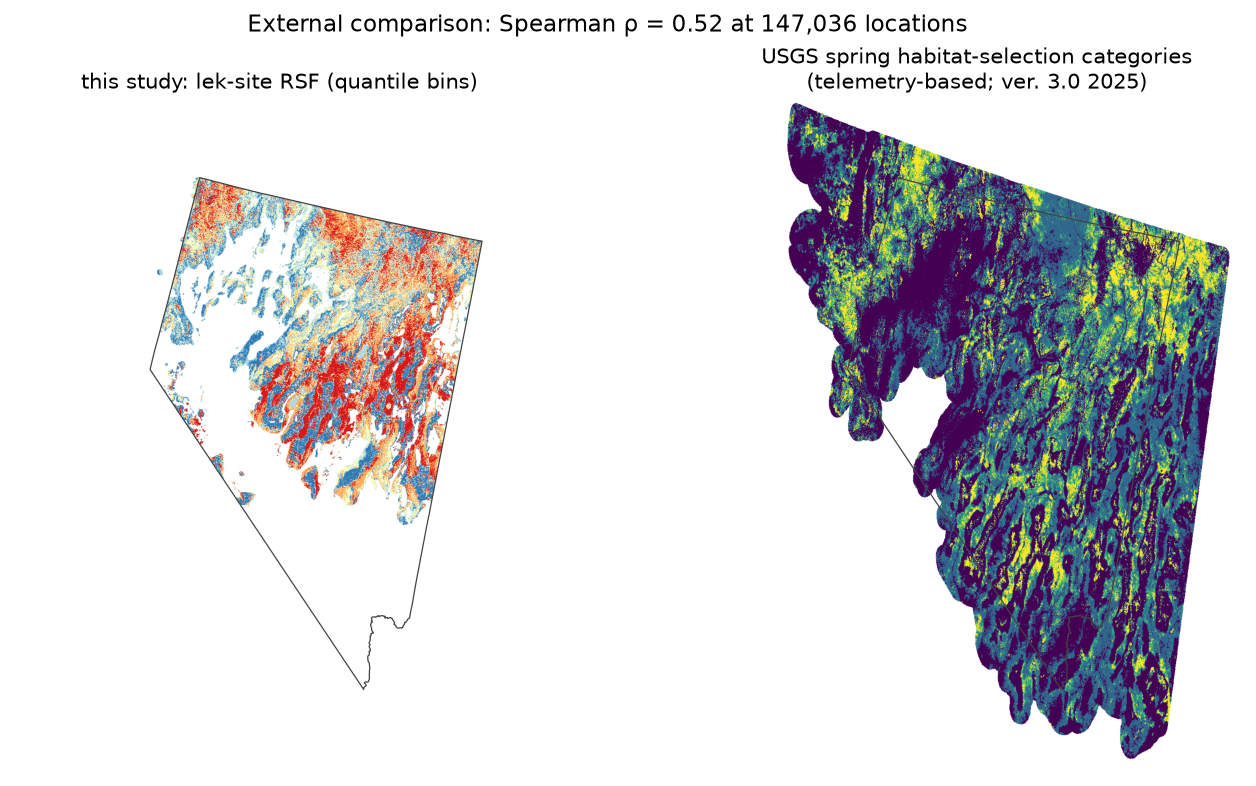
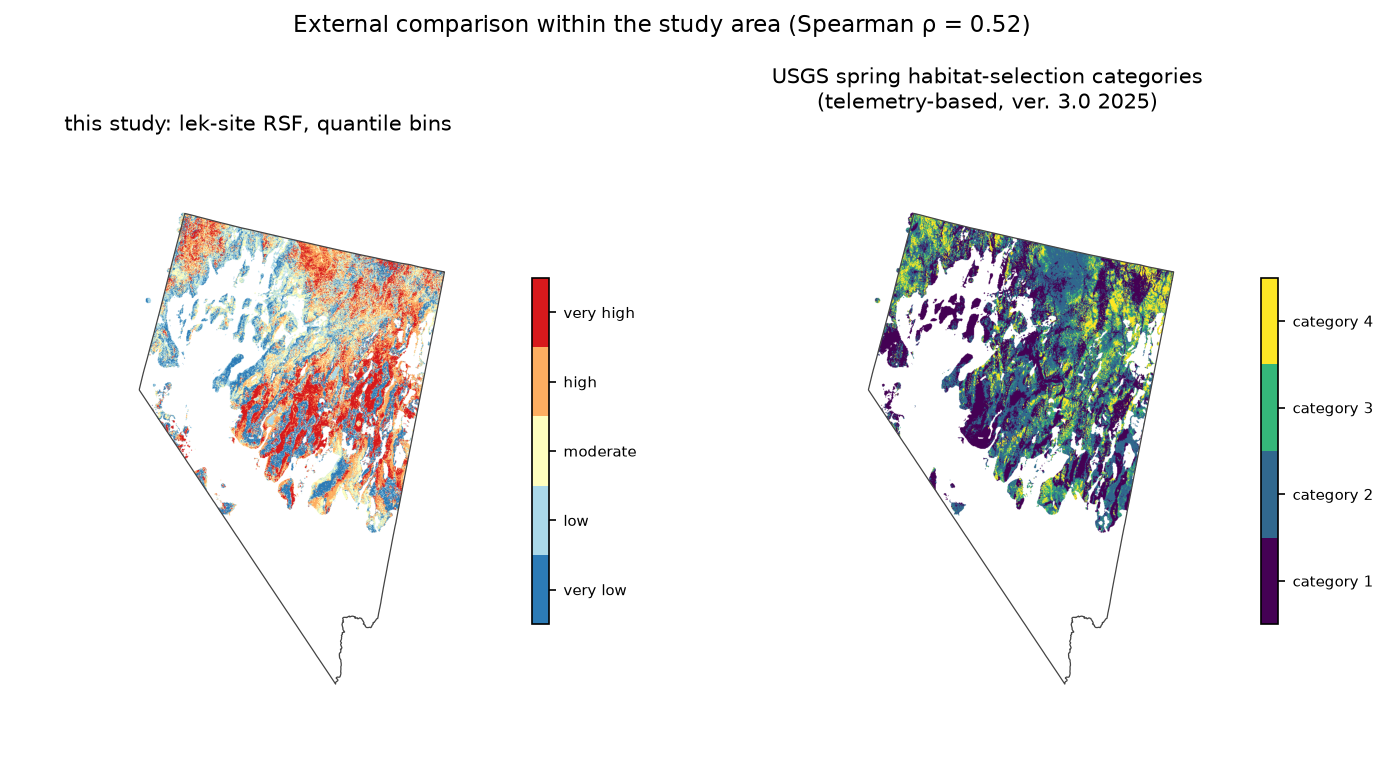
Figure fixes per review: road-class vars in distributions/boxplots, two-panel forest (sjPlot-legible), USGS clipped+legended with full-res monotone contingency (49%/40% corner agreement)

diff --git a/pipeline/map_panels.py b/pipeline/map_panels.py
@@ -1,6 +1,6 @@
 # /// script
 # requires-python = ">=3.10"
-# dependencies = ["rasterio", "numpy", "pandas", "geopandas>=1.0", "pyogrio", "pyarrow", "matplotlib"]
+# dependencies = ["rasterio", "numpy", "pandas", "geopandas>=1.0", "pyogrio", "pyarrow", "matplotlib", "tabulate"]
 # ///
 """map_panels.py -- the fine-scale zoom panel, USGS side-by-side, and Boyce
 P/E curve figure. Zoom window fixed on the Tuscarora Mountains area, chosen
@@ -56,7 +56,10 @@ fig.suptitle("Fine-scale prediction structure invisible at state scale", fontsiz
 fig.savefig(FIGS / "prediction_zoom.png", dpi=150, bbox_inches="tight")
 plt.close(fig)
 
-# --- USGS side-by-side: their spring selection categories on our grid ----------
+# --- USGS side-by-side v2: study-area clipped, legended, bin-vs-category ------
+from rasterio.features import rasterize as rasterize_feat
+sa_gdf = gpd.read_file(D / "design/study_area_5070.gpkg")
+sa_geom = sa_gdf.geometry.iloc[0]
 with rasterio.open(D / "usgs/GrSG_Spring_Selection_Categories.tif") as usrc:
     with WarpedVRT(usrc, crs="EPSG:5070") as vrt:
         uwin = from_bounds(bnd.left, bnd.bottom, bnd.right, bnd.top, vrt.transform)
@@ -65,20 +68,48 @@ with rasterio.open(D / "usgs/GrSG_Spring_Selection_Categories.tif") as usrc:
 if und is not None:
     theirs[theirs == und] = np.nan
 theirs[theirs < 0] = np.nan
+# mask both layers to the study area on the display grid
+t_disp = rasterio.transform.from_bounds(bnd.left, bnd.bottom, bnd.right, bnd.top, ow, oh)
+sa_mask = rasterize_feat([(sa_geom, 1)], out_shape=(oh, ow), transform=t_disp, fill=0).astype(bool)
+theirs[~sa_mask] = np.nan
+bin_state_sa = np.where(sa_mask, bin_state, np.nan)
 
-fig, axes = plt.subplots(1, 2, figsize=(11, 5.8))
-axes[0].imshow(bin_state, cmap=ListedColormap(COLORS), vmin=0, vmax=4,
-               extent=(bnd.left, bnd.right, bnd.bottom, bnd.top))
-axes[0].set_title("this study: lek-site RSF (quantile bins)", fontsize=10)
-im = axes[1].imshow(theirs, cmap="viridis",
-                    extent=(bnd.left, bnd.right, bnd.bottom, bnd.top))
-axes[1].set_title("USGS spring habitat-selection categories\n(telemetry-based; ver. 3.0 2025)", fontsize=10)
+cats = sorted(int(c) for c in np.unique(theirs[np.isfinite(theirs)]))
+cat_cmap = ListedColormap(plt.cm.viridis(np.linspace(0, 1, len(cats))))
+fig, axes = plt.subplots(1, 2, figsize=(11.5, 6))
+im0 = axes[0].imshow(bin_state_sa, cmap=ListedColormap(COLORS), vmin=0, vmax=4,
+                     extent=(bnd.left, bnd.right, bnd.bottom, bnd.top))
+axes[0].set_title("this study: lek-site RSF, quantile bins", fontsize=10)
+cb0 = fig.colorbar(im0, ax=axes[0], shrink=0.5, ticks=[0.4, 1.2, 2.0, 2.8, 3.6])
+cb0.ax.set_yticklabels(["very low", "low", "moderate", "high", "very high"], fontsize=7)
+theirs_idx = np.full_like(theirs, np.nan)
+for i, c in enumerate(cats):
+    theirs_idx[theirs == c] = i
+im1 = axes[1].imshow(theirs_idx, cmap=cat_cmap, vmin=-0.5, vmax=len(cats) - 0.5,
+                     extent=(bnd.left, bnd.right, bnd.bottom, bnd.top))
+axes[1].set_title("USGS spring habitat-selection categories\n(telemetry-based, ver. 3.0 2025)", fontsize=10)
+cb1 = fig.colorbar(im1, ax=axes[1], shrink=0.5, ticks=range(len(cats)))
+cb1.ax.set_yticklabels([f"category {c}" for c in cats], fontsize=7)
 for ax in axes:
     nv.boundary.plot(ax=ax, color="#444", linewidth=0.6)
     ax.set_axis_off()
-fig.suptitle("External comparison: Spearman ρ = 0.52 at 147,036 locations", fontsize=11)
+fig.suptitle("External comparison within the study area (Spearman \u03c1 = 0.52)", fontsize=11)
 fig.savefig(FIGS / "usgs_side_by_side.png", dpi=150, bbox_inches="tight")
 plt.close(fig)
+
+# contingency: their category (rows) x our bin (cols), row-normalized
+both_ok = np.isfinite(theirs_idx) & np.isfinite(bin_state_sa)
+tab = np.zeros((len(cats), 5))
+for i in range(len(cats)):
+    for j in range(5):
+        tab[i, j] = np.sum((theirs_idx == i) & (bin_state_sa == j) & both_ok)
+row_tot = tab.sum(axis=1, keepdims=True); row_tot[row_tot == 0] = 1
+tab_pct = tab / row_tot
+labels5 = ["very low", "low", "moderate", "high", "very high"]
+cdf = pd.DataFrame(tab_pct, index=[f"USGS cat {c}" for c in cats],
+                   columns=[f"ours {l}" for l in labels5])
+with open(ROOT / "reports/v4/tables/usgs_contingency.md", "w") as f:
+    f.write(cdf.map(lambda x: f"{x:.0%}").to_markdown() + "\n")
 
 # --- Boyce P/E curve -------------------------------------------------------------
 pts = pd.read_parquet(D / "design/design_points.parquet")

diff --git a/pipeline/eda_figures.py b/pipeline/eda_figures.py
@@ -30,19 +30,21 @@ TABLES.mkdir(parents=True, exist_ok=True)
 
 pts = pd.read_parquet(D / "design/model_input.parquet")
 CONT = [("elevation", "Elevation (m)"), ("slope", "Slope (°)"), ("tri", "Ruggedness (VRM)"),
-        ("curvature", "Curvature"), ("dist_road_m", "Distance to road (m)")]
+        ("curvature", "Curvature"), ("dist_road_m", "Distance to any road (m)"),
+        ("dist_paved_m", "Distance to paved road (m)"), ("dist_unpaved_m", "Distance to unpaved road (m)")]
 
 # --- Fig: used vs available distributions --------------------------------------
-fig, axes = plt.subplots(2, 3, figsize=(11, 6.5))
+fig, axes = plt.subplots(2, 4, figsize=(13.5, 6.5))
 for ax, (col, label) in zip(axes.flat, CONT):
     for use, color, name in [(0, "#9aa5b1", "available"), (1, "#3a6ea5", "used")]:
         v = pts.loc[pts.use == use, col].dropna()
-        if col in ("tri", "dist_road_m"):
+        if col in ("tri", "dist_road_m", "dist_paved_m", "dist_unpaved_m"):
             v = v[v < v.quantile(0.99)]
         ax.hist(v, bins=40, density=True, alpha=0.55, color=color, label=name)
     ax.set_title(label, fontsize=9); ax.tick_params(labelsize=7)
 axes.flat[0].legend(frameon=False, fontsize=8)
-axes.flat[-1].set_axis_off()
+for extra in axes.flat[len(CONT):]:
+    extra.set_axis_off()
 fig.suptitle("Continuous predictor distributions at used (n=718) and available (n=7,180) sites", fontsize=10)
 fig.tight_layout()
 fig.savefig(FIGS / "distributions.png", dpi=150, bbox_inches="tight")
@@ -149,10 +151,10 @@ plt.close(fig)
 print("EDA_EXTRA_COMPLETE")
 
 # --- Fig: box-and-whisker comparison, used vs available -------------------------
-fig, axes = plt.subplots(1, 5, figsize=(11.5, 3.6))
+fig, axes = plt.subplots(1, len(CONT), figsize=(2.3 * len(CONT), 3.6))
 for ax, (col, label) in zip(axes, CONT):
     data = [pts.loc[pts.use == 0, col].dropna(), pts.loc[pts.use == 1, col].dropna()]
-    if col in ("tri", "dist_road_m"):
+    if col in ("tri", "dist_road_m", "dist_paved_m", "dist_unpaved_m"):
         data = [d[d < d.quantile(0.99)] for d in data]
     bp = ax.boxplot(data, tick_labels=["avail", "used"], widths=0.55, patch_artist=True,
                     showfliers=False, medianprops=dict(color="black"))

diff --git a/pipeline/render_figures.py b/pipeline/render_figures.py
@@ -98,3 +98,31 @@ fig.savefig(FIGS / "vegetation.png", dpi=150, bbox_inches="tight")
 plt.close(fig)
 
 print("FIGURES_COMPLETE:", sorted(p.name for p in FIGS.glob("*.png")))
+
+# --- Forest plot v2: split panels, independent scales ---------------------------
+betas = pd.read_csv(ROOT / "reports/v4/averaged_betas.csv", index_col=0)
+b = betas[~betas.index.str.contains("Intercept")][["Estimate", "ci85_low", "ci85_high"]]
+terrain = b[b.index.str.startswith(("scale_", "Direction"))]
+veg = b[b.index.str.startswith("Vegetation")]
+veg = veg[(veg.ci85_high - veg.ci85_low) < 20]   # drop separation-fossil CIs, note in caption
+def clean(ix):
+    return (ix.str.replace("scale_", "", regex=False)
+              .str.replace("Direction", "Aspect: ", regex=False)
+              .str.replace("Vegetation", "", regex=False))
+fig, axes = plt.subplots(1, 2, figsize=(11, 4.8))
+for ax, dat, title in [(axes[0], terrain, "Terrain, roads, aspect"),
+                       (axes[1], veg, "Vegetation (vs shrubland)")]:
+    d = dat.sort_values("Estimate")
+    yy = np.arange(len(d))
+    colors = ["#a05252" if v < 0 else "#3a6ea5" for v in d.Estimate]
+    ax.hlines(yy, d.ci85_low, d.ci85_high, color=colors, linewidth=1.6)
+    ax.scatter(d.Estimate, yy, color=colors, zorder=3, s=22)
+    ax.axvline(0, color="#777", linewidth=0.9)
+    ax.set_yticks(yy); ax.set_yticklabels(clean(d.index), fontsize=8)
+    ax.set_title(title, fontsize=10)
+    ax.set_xlabel("standardized coefficient (85% CI)")
+fig.suptitle("Model-averaged effects, top three models", fontsize=11)
+fig.tight_layout()
+fig.savefig(FIGS / "forest.png", dpi=150, bbox_inches="tight")
+plt.close(fig)
+print("FOREST_V2_COMPLETE")

diff --git a/pipeline/validate_usgs.py b/pipeline/validate_usgs.py
@@ -1,6 +1,6 @@
 # /// script
 # requires-python = ">=3.10"
-# dependencies = ["rasterio", "numpy", "pandas", "geopandas>=1.0", "pyogrio", "pyarrow", "pyproj"]
+# dependencies = ["rasterio", "numpy", "pandas", "geopandas>=1.0", "pyogrio", "pyarrow", "pyproj", "tabulate"]
 # ///
 """validate_usgs.py -- external correlation of the v4 surface against the USGS
 sage-grouse habitat-selection rasters (Coates-lab products; ScienceBase item
@@ -71,6 +71,22 @@ if nod is not None:
 ours, theirs = ours[ok], theirs[ok]
 rank = lambda a: pd.Series(a).rank().values
 rho = float(np.corrcoef(rank(ours), rank(theirs))[0, 1])
+
+# contingency at full resolution: our quantile bin x their category
+qs = np.quantile(ours, [0.2, 0.4, 0.6, 0.8])
+our_bin = np.digitize(ours, qs)
+cats = sorted(int(c) for c in np.unique(theirs))
+labels5 = ["very low", "low", "moderate", "high", "very high"]
+tab = np.zeros((len(cats), 5))
+for i, c in enumerate(cats):
+    for j in range(5):
+        tab[i, j] = np.sum((theirs == c) & (our_bin == j))
+tab = tab / tab.sum(axis=1, keepdims=True)
+cdf = pd.DataFrame(tab, index=[f"USGS cat {c}" for c in cats],
+                   columns=[f"ours {l}" for l in labels5])
+(ROOT / "reports/v4/tables").mkdir(parents=True, exist_ok=True)
+with open(ROOT / "reports/v4/tables/usgs_contingency.md", "w") as f:
+    f.write(cdf.map(lambda x: f"{x:.0%}").to_markdown() + "\n")
 msg = (f"USGS raster: {target['name']}\n"
        f"common valid points: {len(ours):,} of 150,000\n"
        f"Spearman(ours, USGS): {rho:.3f}\n")

diff --git a/reports/v4/tables/summary_stats.md b/reports/v4/tables/summary_stats.md
@@ -1,12 +1,16 @@
-| Variable             | Sites     |         Mean |          SD |          Min |         Max |
-|:---------------------|:----------|-------------:|------------:|-------------:|------------:|
-| Elevation (m)        | used      | 1923         |  206.2      | 1277         |  2880       |
-| Elevation (m)        | available | 1880         |  302.9      | 1042         |  3354       |
-| Slope (°)            | used      |    3.67      |    3.443    |    0.004454  |    29.6     |
-| Slope (°)            | available |    8.194     |    8.437    |    0         |    46.17    |
-| Ruggedness (VRM)     | used      |    0.0004637 |    0.001357 |    1.45e-08  |     0.0169  |
-| Ruggedness (VRM)     | available |    0.001972  |    0.004534 |   -1.066e-14 |     0.07878 |
-| Curvature            | used      |   -0.02516   |    0.1541   |   -1.137     |     0.9853  |
-| Curvature            | available |    0.0004905 |    0.3124   |   -2.844     |     2.291   |
-| Distance to road (m) | used      |  699         |  751.1      |    0         |  4513       |
-| Distance to road (m) | available |  893.1       | 1070        |    0         | 30190       |
+| Variable                     | Sites     |          Mean |           SD |          Min |         Max |
+|:-----------------------------|:----------|--------------:|-------------:|-------------:|------------:|
+| Elevation (m)                | used      |  1923         |   206.2      | 1277         |  2880       |
+| Elevation (m)                | available |  1880         |   302.9      | 1042         |  3354       |
+| Slope (°)                    | used      |     3.67      |     3.443    |    0.004454  |    29.6     |
+| Slope (°)                    | available |     8.194     |     8.437    |    0         |    46.17    |
+| Ruggedness (VRM)             | used      |     0.0004637 |     0.001357 |    1.45e-08  |     0.0169  |
+| Ruggedness (VRM)             | available |     0.001972  |     0.004534 |   -1.066e-14 |     0.07878 |
+| Curvature                    | used      |    -0.02516   |     0.1541   |   -1.137     |     0.9853  |
+| Curvature                    | available |     0.0004905 |     0.3124   |   -2.844     |     2.291   |
+| Distance to any road (m)     | used      |   699         |   751.1      |    0         |  4513       |
+| Distance to any road (m)     | available |   893.1       |  1070        |    0         | 30190       |
+| Distance to paved road (m)   | used      | 13240         | 10710        |  102.4       | 56710       |
+| Distance to paved road (m)   | available | 12550         | 10690        |    0         | 73560       |
+| Distance to unpaved road (m) | used      |   711.4       |   765.1      |    0         |  4513       |
+| Distance to unpaved road (m) | available |   914.1       |  1086        |    0         | 30190       |

diff --git a/reports/v4/tables/validation.md b/reports/v4/tables/validation.md
@@ -1,7 +1,9 @@
-| Variable             | Study-area mean   |   Available-sample mean |   85% CI low |   85% CI high | Covered   |
-|:---------------------|:------------------|------------------------:|-------------:|--------------:|:----------|
-| Elevation (m)        | 1,878             |            1880         |  1875        |   1885        | yes       |
-| Slope (°)            | 8.219             |               8.194     |     8.051    |      8.337    | yes       |
-| Ruggedness (VRM)     | 0.002068          |               0.001972  |     0.001895 |      0.002049 | no        |
-| Curvature            | -0.001529         |               0.0004905 |    -0.004819 |      0.0058   | yes       |
-| Distance to road (m) | —                 |             893.1       |   874.9      |    911.3      | yes       |
+| Variable                     | Study-area mean   |   Available-sample mean |   85% CI low |   85% CI high | Covered   |
+|:-----------------------------|:------------------|------------------------:|-------------:|--------------:|:----------|
+| Elevation (m)                | 1,878             |            1880         |  1875        |   1885        | yes       |
+| Slope (°)                    | 8.219             |               8.194     |     8.051    |      8.337    | yes       |
+| Ruggedness (VRM)             | 0.002068          |               0.001972  |     0.001895 |      0.002049 | no        |
+| Curvature                    | -0.001529         |               0.0004905 |    -0.004819 |      0.0058   | yes       |
+| Distance to any road (m)     | —                 |             893.1       |   874.9      |    911.3      | yes       |
+| Distance to paved road (m)   | —                 |           12550         | 12370        |  12730        | yes       |
+| Distance to unpaved road (m) | —                 |             914.1       |   895.7      |    932.6      | yes       |

diff --git a/reports/v4/tables/usgs_contingency.md b/reports/v4/tables/usgs_contingency.md
@@ -1,0 +1,6 @@
+|            | ours very low   | ours low   | ours moderate   | ours high   | ours very high   |
+|:-----------|:----------------|:-----------|:----------------|:------------|:-----------------|
+| USGS cat 1 | 49%             | 26%        | 13%             | 8%          | 5%               |
+| USGS cat 2 | 8%              | 20%        | 24%             | 26%         | 22%              |
+| USGS cat 3 | 4%              | 14%        | 24%             | 27%         | 32%              |
+| USGS cat 4 | 3%              | 12%        | 21%             | 25%         | 40%              |
